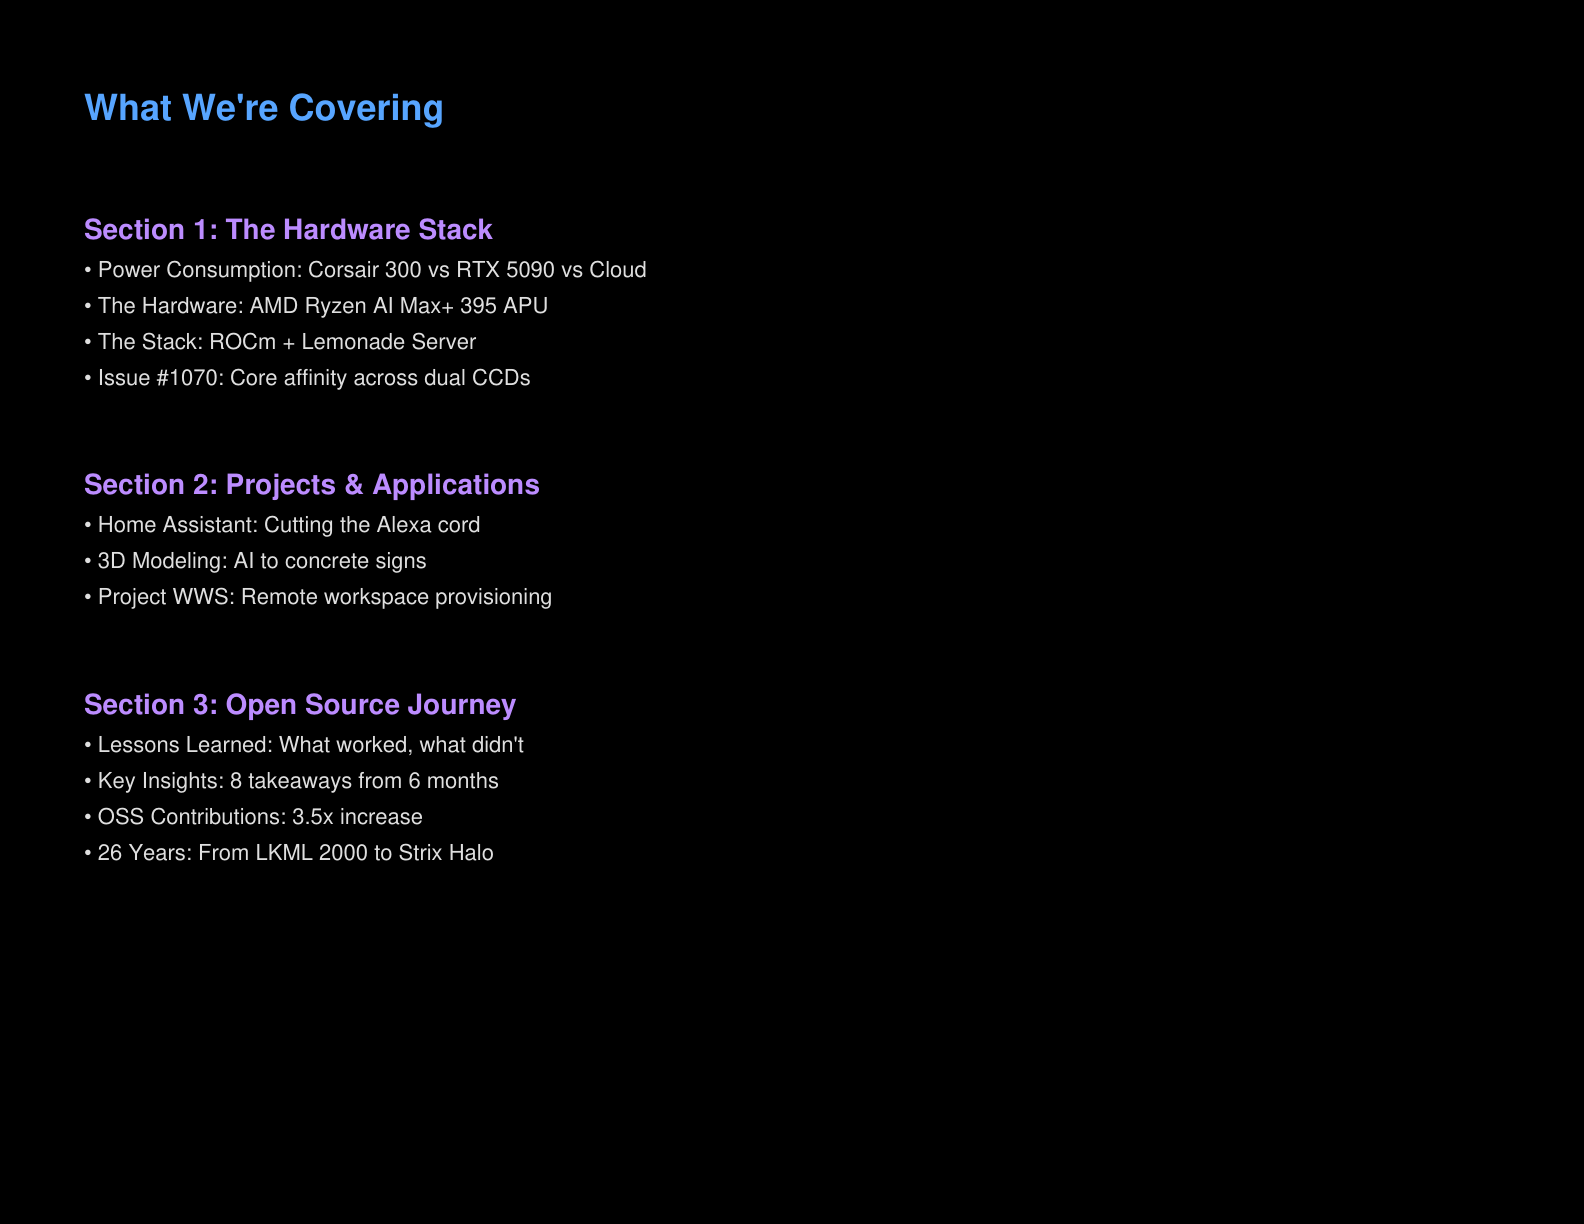
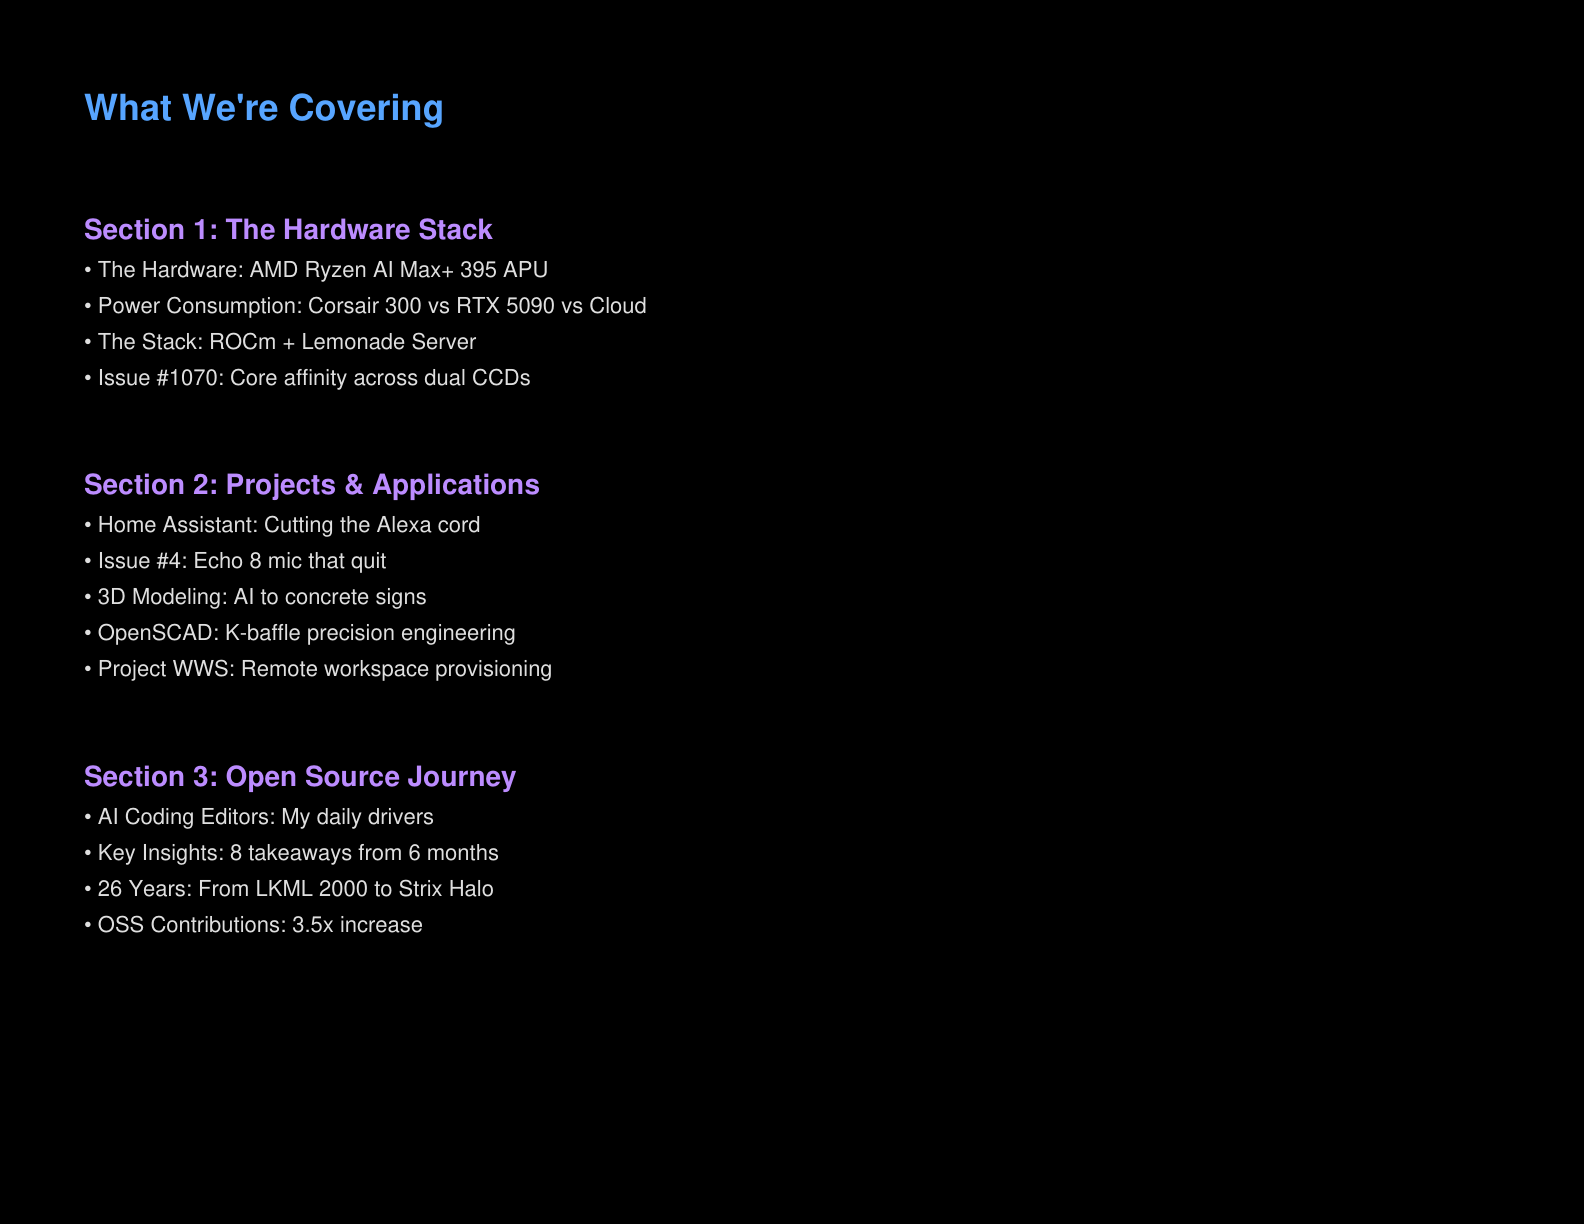
Update agenda slide to match actual content
Section 1: The Hardware Stack
- The Hardware: AMD Ryzen AI Max+ 395 APU
- Power Consumption: Corsair 300 vs RTX 5090 vs Cloud
- The Stack: ROCm + Lemonade Server
- Issue #1070: Core affinity across dual CCDs

Section 2: Projects & Applications
- Home Assistant: Cutting the Alexa cord
- Issue #4: Echo 8 mic that quit
- 3D Modeling: AI to concrete signs
- OpenSCAD: K-baffle precision engineering
- Project WWS: Remote workspace provisioning

Section 3: Open Source Journey
- AI Coding Editors: My daily drivers
- Key Insights: 8 takeaways from 6 months
- 26 Years: From LKML 2000 to Strix Halo
- OSS Contributions: 3.5x increase

Changed region(s): [[0.0309, 0.4346, 0.3403, 0.7761], [0.0619, 0.2173, 0.4021, 0.2794]]

diff --git a/generate_pdf.py b/generate_pdf.py
@@ -215,8 +215,8 @@ def create_pdf():
     
     body.append(Paragraph("Section 1: The Hardware Stack", subheading_style))
     agenda_items = [
-        "• Power Consumption: Corsair 300 vs RTX 5090 vs Cloud",
         "• The Hardware: AMD Ryzen AI Max+ 395 APU",
+        "• Power Consumption: Corsair 300 vs RTX 5090 vs Cloud",
         "• The Stack: ROCm + Lemonade Server",
         "• Issue #1070: Core affinity across dual CCDs"
     ]
@@ -228,7 +228,9 @@ def create_pdf():
     body.append(Paragraph("Section 2: Projects & Applications", subheading_style))
     agenda_items = [
         "• Home Assistant: Cutting the Alexa cord",
+        "• Issue #4: Echo 8 mic that quit",
         "• 3D Modeling: AI to concrete signs",
+        "• OpenSCAD: K-baffle precision engineering",
         "• Project WWS: Remote workspace provisioning"
     ]
     for item in agenda_items:
@@ -238,10 +240,10 @@ def create_pdf():
     
     body.append(Paragraph("Section 3: Open Source Journey", subheading_style))
     agenda_items = [
-        "• Lessons Learned: What worked, what didn't",
+        "• AI Coding Editors: My daily drivers",
         "• Key Insights: 8 takeaways from 6 months",
-        "• OSS Contributions: 3.5x increase",
-        "• 26 Years: From LKML 2000 to Strix Halo"
+        "• 26 Years: From LKML 2000 to Strix Halo",
+        "• OSS Contributions: 3.5x increase"
     ]
     for item in agenda_items:
         body.append(Paragraph(f"  {item}", normal_style))